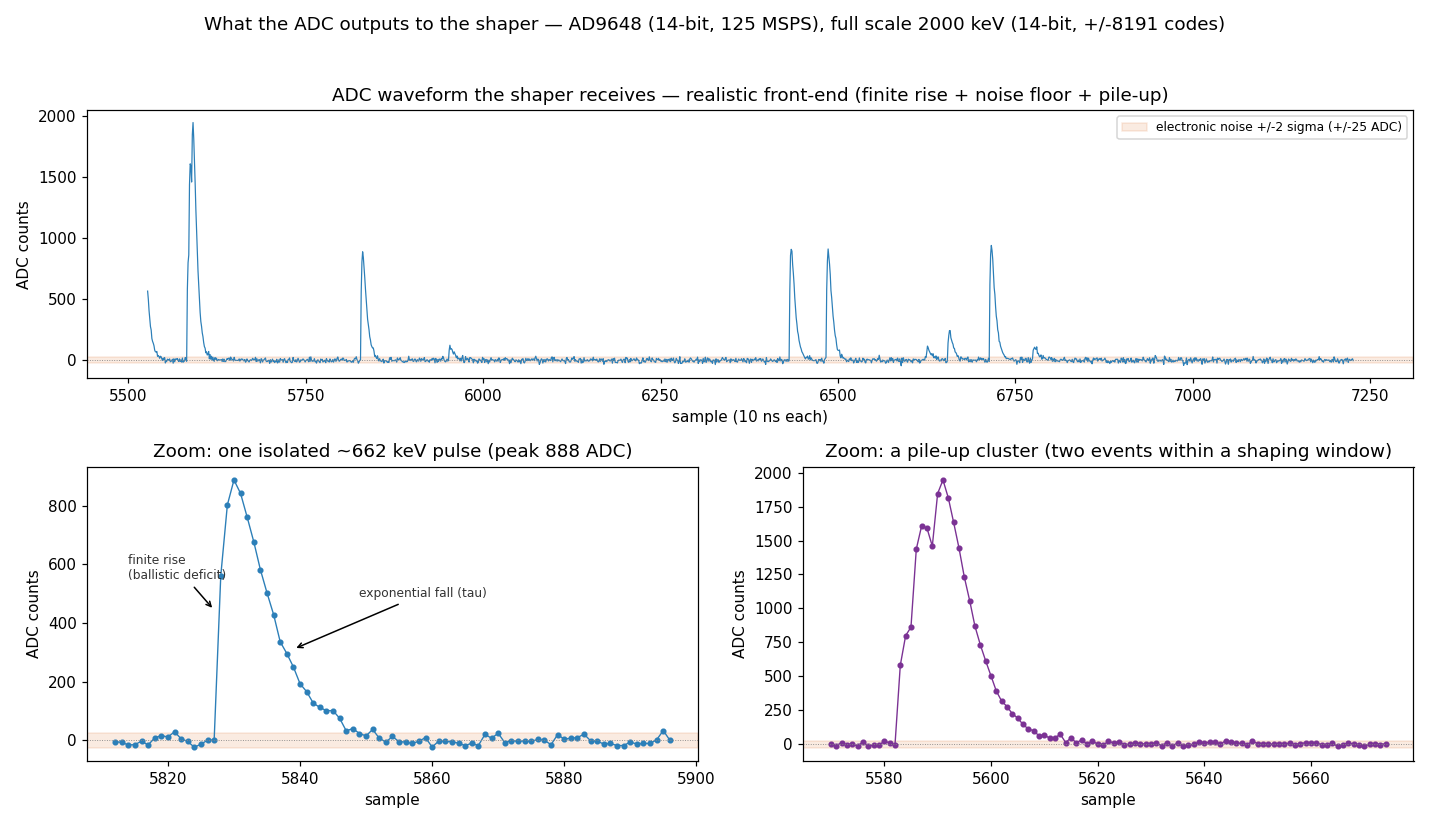
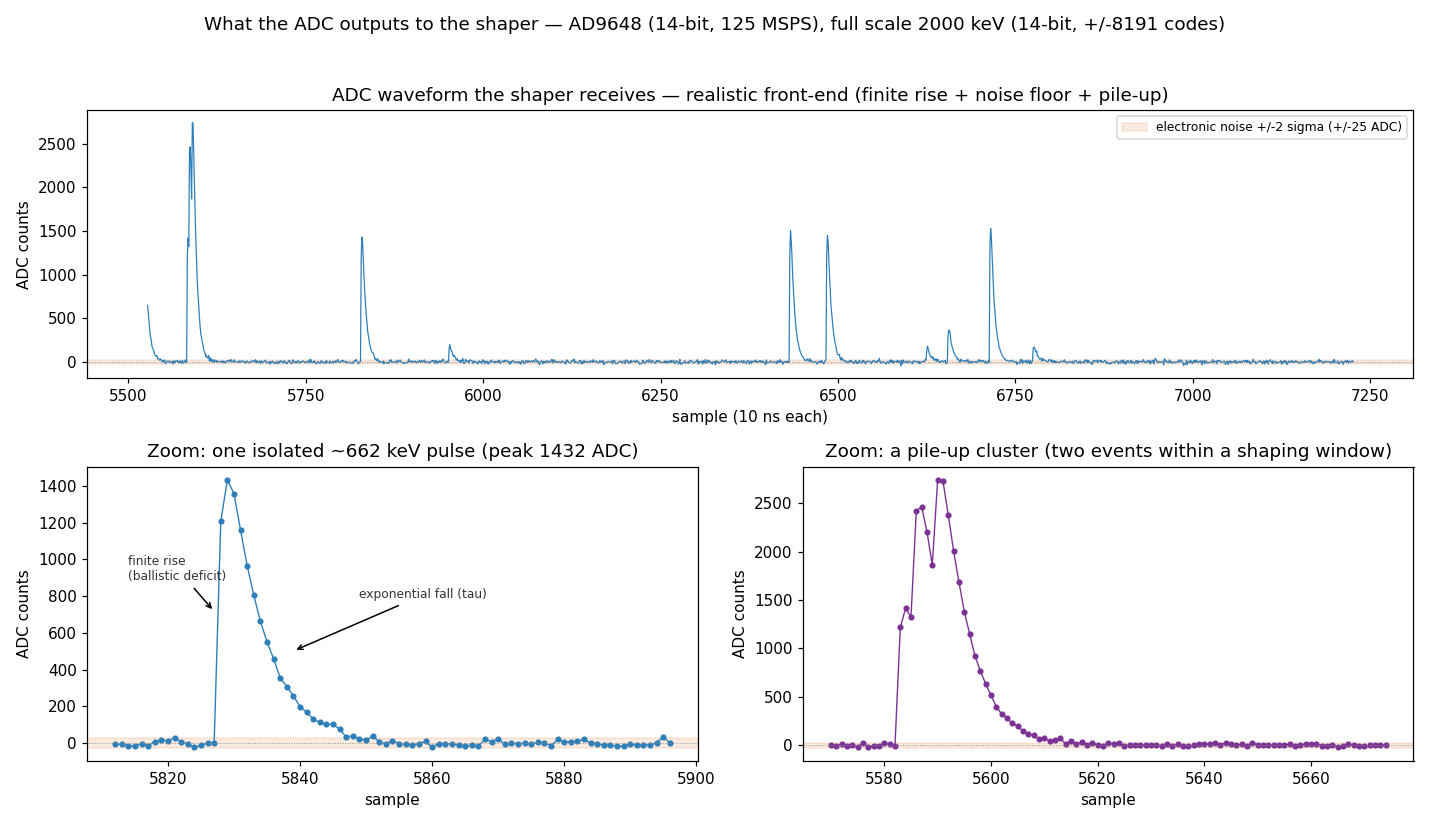
Theme 30: set pulse rise time from the ADC/Nyquist limit (tau_rise 2->1)
The finite rise time is analog but must be SAMPLEABLE: a rise faster than
~0.6 samples has a signal bandwidth above the 62.5 MHz Nyquist (125 MSPS) and
aliases, so the FPGA/ADC cannot faithfully capture it (a real anti-alias filter
enforces this floor). tau_rise_study.py quantifies it: tau_rise controls the
visible peak (0.5->68%, 1.0->53%, 2.0->33% of the tail) but not resolution (the
shaper reads the tail, ~flat) and not the baseline walk (flat).

Set the default tau_rise = 1.0 sample (8 ns, BW ~39 MHz = 62% of Nyquist, ~3
samples on the rising edge) — the fastest cleanly-sampleable rise; it recovers
the 662 visible peak from 888 to 1432 ADC (33% -> 53% of tail). tau_rise=0.5 is
ruled out (aliases).

Correction: an earlier claim that the finite rise enlarges the baseline walk
(-47k -> -151k) was wrong — the walk comes from the pole-zero on the exponential
TAIL and is flat across tau_rise (and independent of bit depth / clipping),
measured here. Fixed the findings/memory. Regenerated all waveform plots.

cocotb shaper 3/3 + BLR still pass. 44 C# + 4 cocotb green.

Claude-Session: https://claude.ai/code/session_01JzXSNQYoWEuh1nUS9rXAso

diff --git a/rtl/tau_rise_study.py b/rtl/tau_rise_study.py
@@ -1,0 +1,110 @@
+"""Tune the pulse RISE time (tau_rise): how it changes the ADC pulse shape, the peak-vs-tail (ballistic)
+deficit, the shaper's pole-zero baseline walk, and the energy resolution. The current default (2.0 samples
+= 20 ns at 100 MSPS) is slow for a scintillator (rise/fall = 0.4) and suppresses the visible peak to ~1/3
+of the tail amplitude; a faster rise (~1 sample) is more realistic.
+
+Run `montecarlo eventstream <cfg>` first, then `python tau_rise_study.py`.
+"""
+import math
+import statistics
+import matplotlib
+matplotlib.use("Agg")
+import matplotlib.pyplot as plt
+
+import trap_ref
+import event_stream
+
+ADC = event_stream.ADC
+RISES_NS = [(0.5, "#1a9850"), (1.0, "#66bd63"), (1.5, "#fdae61"), (2.0, "#d73027"), (3.0, "#7b3294")]
+WALK_CAP = 160_000     # samples of the stream used for the baseline-walk metric (speed)
+
+
+def pulse_shape(tau_rise, kev=661.7):
+    """One isolated pulse (codes) for the plot + its peak as a fraction of the tail amplitude a."""
+    a = kev * ADC["adc_per_kev"]
+    n, n0 = 60, 5
+    p = [ai for ai in trap_ref.biexp_pulse(n, n0, kev, trap_ref.TAU_SAMPLES, tau_rise, ADC["adc_per_kev"])]
+    return p[n0:], max(p) / a
+
+
+def walk_and_fwhm(events, tau_rise):
+    capped = [(s, e) for s, e in events if s < WALK_CAP]
+    wave = event_stream.rasterize(capped, tau_rise=tau_rise)
+    shaped = trap_ref.trap_shape(wave)
+    base = [s - r for s, r in zip(shaped, trap_ref.blr(shaped))]
+    walk = -min(base)                                        # baseline walk magnitude (ADC)
+    k = event_stream.calibrate_flat_per_kev(tau_rise=tau_rise)
+    iso = trap_ref.RISE + trap_ref.FLAT + 8 * int(math.ceil(trap_ref.TAU_SAMPLES))
+    arr = [s for s, _ in capped]
+    rec = []
+    for i, (n0, e) in enumerate(capped):
+        if e < 620:
+            continue
+        left = n0 - arr[i - 1] if i > 0 else 10 ** 9
+        right = arr[i + 1] - n0 if i + 1 < len(capped) else 10 ** 9
+        if min(left, right) >= iso:
+            rec.append(event_stream.flat_top(shaped, n0) / k)
+    fwhm = 2.3548 * statistics.pstdev(rec) / statistics.mean(rec) * 100 if len(rec) > 20 else float("nan")
+    return walk, fwhm
+
+
+def main():
+    events, _ = event_stream.read_stream()
+
+    fig, ax = plt.subplots(1, 3, figsize=(16, 4.8))
+
+    # ---- Panel 1: pulse shapes ----
+    a662 = 661.7 * ADC["adc_per_kev"]
+    for tr, c in RISES_NS:
+        shape, pk = pulse_shape(tr)
+        ax[0].plot(range(len(shape)), shape, "-", color=c, lw=1.6,
+                   label=f"tau_rise={tr} ({tr*8:.0f} ns), peak {pk*100:.0f}% of tail")
+    ax[0].axhline(a662, color="#888", ls=":", lw=1)
+    ax[0].text(30, a662 * 0.97, f"tail amplitude a = {a662:.0f} codes (662 keV)", fontsize=8, color="#555", va="top")
+    ax[0].set_xlabel("sample after arrival"); ax[0].set_ylabel("ADC codes")
+    ax[0].set_title("Pulse shape vs rise time\nfaster rise -> peak recovers toward the tail amplitude")
+    ax[0].legend(fontsize=7.5)
+
+    # ---- Panels 2 & 3: metrics vs tau_rise ----
+    trs = [tr for tr, _ in RISES_NS]
+    peaks = [pulse_shape(tr)[1] * 100 for tr in trs]
+    walks, fwhms = [], []
+    for tr in trs:
+        w, f = walk_and_fwhm(events, tr)
+        walks.append(w / 1000.0); fwhms.append(f)
+
+    ax[1].plot(trs, peaks, "o-", color="#2c7fb8", label="peak / tail amplitude")
+    ax[1].plot(trs, [100] * len(trs), ":", color="#888")
+    ax1b = ax[1].twinx()
+    ax1b.plot(trs, walks, "s--", color="#d95f0e", label="baseline walk (flat)")
+    ax1b.set_ylim(0, max(walks) * 1.4)      # from 0 so the walk reads as FLAT, not auto-zoomed zigzag
+    ax[1].set_ylim(0, 105)
+    # ADC sampling floor: below ~0.6 samples the rise bandwidth exceeds Nyquist -> aliases (FPGA can't get it).
+    ax[1].axvspan(0.3, 0.6, color="#d73027", alpha=0.12)
+    ax[1].text(0.44, 88, "aliases\n(BW > Nyquist)", fontsize=7, color="#a50026", ha="center", rotation=90, va="top")
+    ax[1].axvline(1.0, color="#1a9850", lw=1.4); ax[1].text(1.03, 12, "chosen 1.0", fontsize=8, color="#1a9850")
+    ax[1].set_xlabel("tau_rise (samples)"); ax[1].set_ylabel("peak (% of tail)", color="#2c7fb8")
+    ax1b.set_ylabel("baseline walk (kADC over stream)", color="#d95f0e")
+    ax[1].set_title("Deficit + baseline walk vs rise time")
+    ax[1].legend(fontsize=8, loc="center right"); ax1b.legend(fontsize=8, loc="lower right")
+
+    ax[2].plot(trs, fwhms, "o-", color="#7b3294")
+    ax[2].axvline(1.0, color="#1a9850", lw=1.4)
+    ax[2].set_xlabel("tau_rise (samples)"); ax[2].set_ylabel("662 keV photopeak FWHM (%)")
+    ax[2].set_title("Energy resolution vs rise time\n(shaper reads the tail -> nearly flat)")
+    ax[2].set_ylim(0, max(fwhms) * 1.3)
+    for x, y in zip(trs, fwhms):
+        ax[2].annotate(f"{y:.1f}%", (x, y), textcoords="offset points", xytext=(0, 6), fontsize=7, ha="center")
+
+    fig.suptitle(f"Pulse rise-time (tau_rise) — {ADC['name']}, 125 MSPS. Chosen 1.0 sample (peak 53% of tail): the "
+                 "FASTEST the ADC can cleanly sample (BW < Nyquist); below ~0.6 it aliases. Walk is set by the "
+                 "pole-zero tail, NOT the rise.", fontsize=10)
+    fig.tight_layout(rect=(0, 0, 1, 0.93))
+    fig.savefig("tau_rise.png", dpi=110)
+    print("wrote tau_rise.png")
+    for tr, pk, w, f in zip(trs, peaks, walks, fwhms):
+        print(f"  tau_rise={tr:.1f} ({tr*8:.0f} ns): peak {pk:.0f}% of tail, walk {w:.0f} kADC, FWHM {f:.2f}%")
+
+
+if __name__ == "__main__":
+    main()

diff --git a/rtl/trap_ref.py b/rtl/trap_ref.py
@@ -14,7 +14,9 @@ M_Q8 = round(M * 256)                               # 1156
 ADC_PER_KEV = 4.0
 
 # --- realistic front-end parameters (used by the MC-stream rasterizer, not the pure shaper unit tests) ---
-TAU_RISE_SAMPLES = 2.0     # finite pulse rise (scint + SiPM + preamp) ~ 20 ns at 100 MSPS -> ballistic deficit
+TAU_RISE_SAMPLES = 1.0     # finite pulse rise ~ 8-10 ns: the fastest an ADC can cleanly sample (BW ~39 MHz <
+                           # Nyquist at 125 MSPS, ~3 samples on the rising edge). Faster aliases; slower over-
+                           # suppresses the peak (ballistic deficit). Bounded BELOW by the anti-alias / Nyquist limit.
 NOISE_KEV = 3.0            # white electronic noise floor, keV-equivalent RMS at the ADC input (ENC)
 ADC_MAX = 32767            # 16-bit signed ADC full scale — the shaper input port width (pile-up stacks clip)
 INTRINSIC_FWHM = 0.06      # scintillator+SiPM photostatistical resolution (FWHM fraction) at INTRINSIC_REF_KEV

diff --git a/AGENTS.findings.md b/AGENTS.findings.md
@@ -809,8 +809,13 @@ nothing to fight (its whole purpose is to maximize SNR against a noise floor). M
   light statistics, relative FWHM ∝ 1/√E (`intrinsic_fwhm` at `intrinsic_ref_kev`, default 6 % @ 662, GAGG-ish).
 - **Finite rise (ballistic deficit)** — a bi-exponential pulse `a·(e^{-t/τ} − e^{-t/τ_rise})` (`trap_ref.biexp_pulse`).
   Its TAIL is still `a·e^{-t/τ}`, so the single-τ pole-zero and the energy calibration are unchanged; the rise
-  is the realistic part. (Side effect: the un-cancelled rise term enlarges the pole-zero **baseline walk** to
-  ~-150000 ADC over the stream, from ~-47000 with ideal pulses — so theme 29's BLR matters more, not less.)
+  is the realistic part (it suppresses the VISIBLE peak — τ_rise=1 → peak ≈ 53 % of the tail amplitude). **τ_rise
+  is bounded BELOW by the ADC/Nyquist limit** (`tau_rise_study.py`): a rise faster than ~0.6 samples has a signal
+  bandwidth above the 62.5 MHz Nyquist (at 125 MSPS) and ALIASES — the FPGA can't faithfully sample it — so
+  τ_rise=1 (BW ~39 MHz, ~3 samples on the rising edge) is the fastest realistic value; a real anti-alias filter
+  enforces this floor. **Correction of an earlier claim**: τ_rise does NOT change the baseline walk — the walk
+  (~-150000 ADC over the stream vs ~-47000 for the theme-29 setup) comes from the pole-zero on the exponential
+  TAIL and is flat across τ_rise (and independent of bit depth / clipping); measured, not the rise term.
 - **White electronic noise** — a Gaussian floor (`noise_kev` keV-equivalent RMS, default 3) on every sample:
   the noise the shaper actually averages against.
 - **ADC clip + quantize** — to ±`adc_max` (16-bit), so pile-up stacks saturate (honours the shaper's input port).
